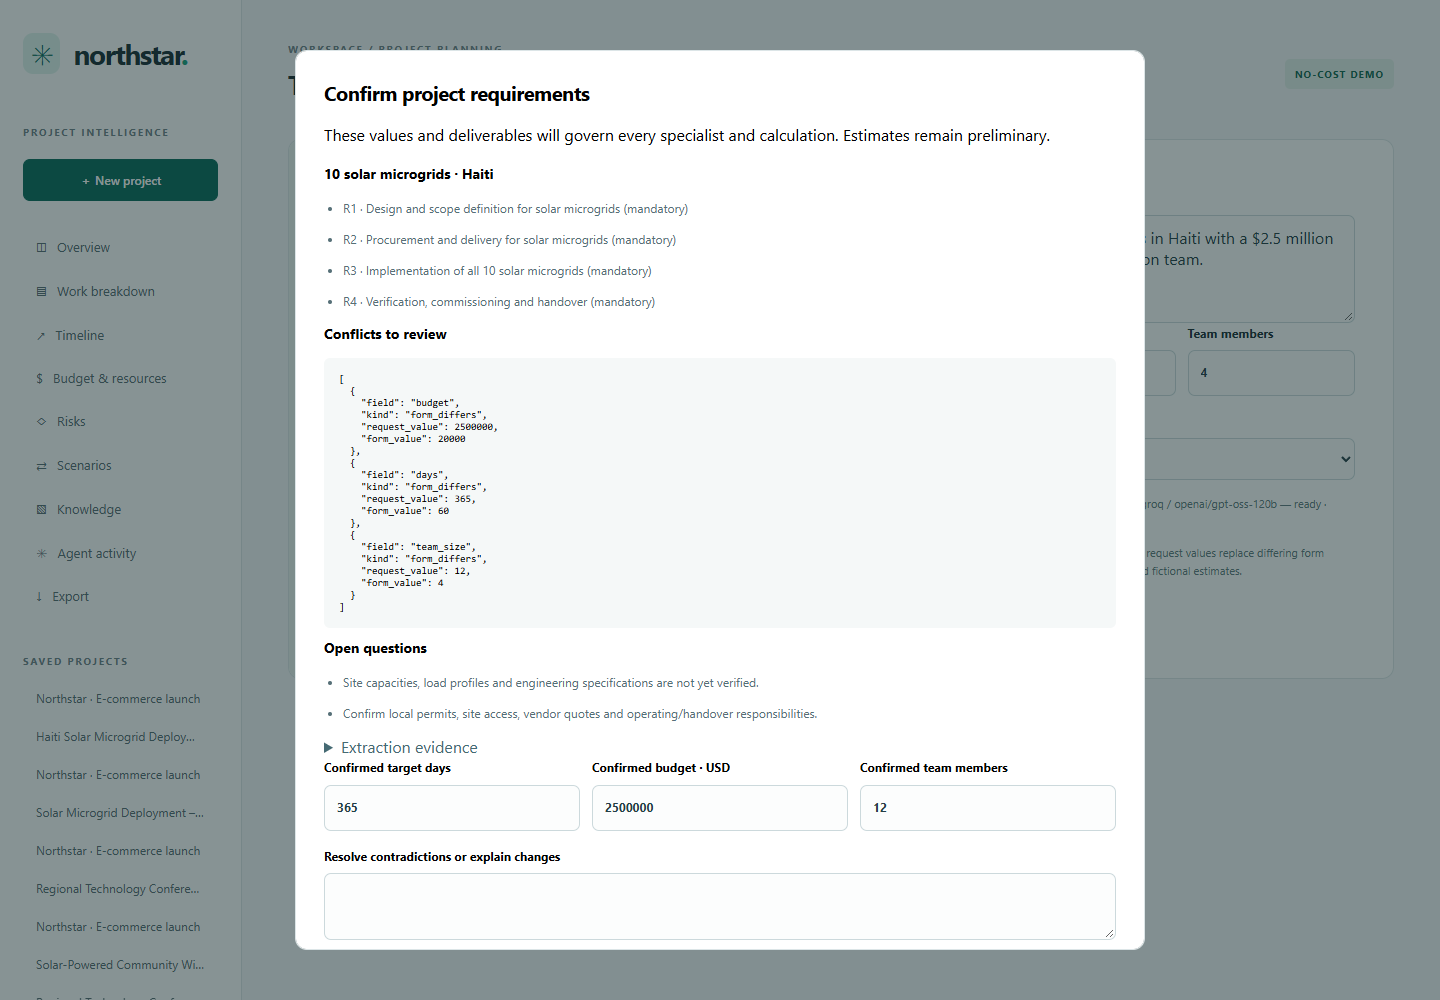
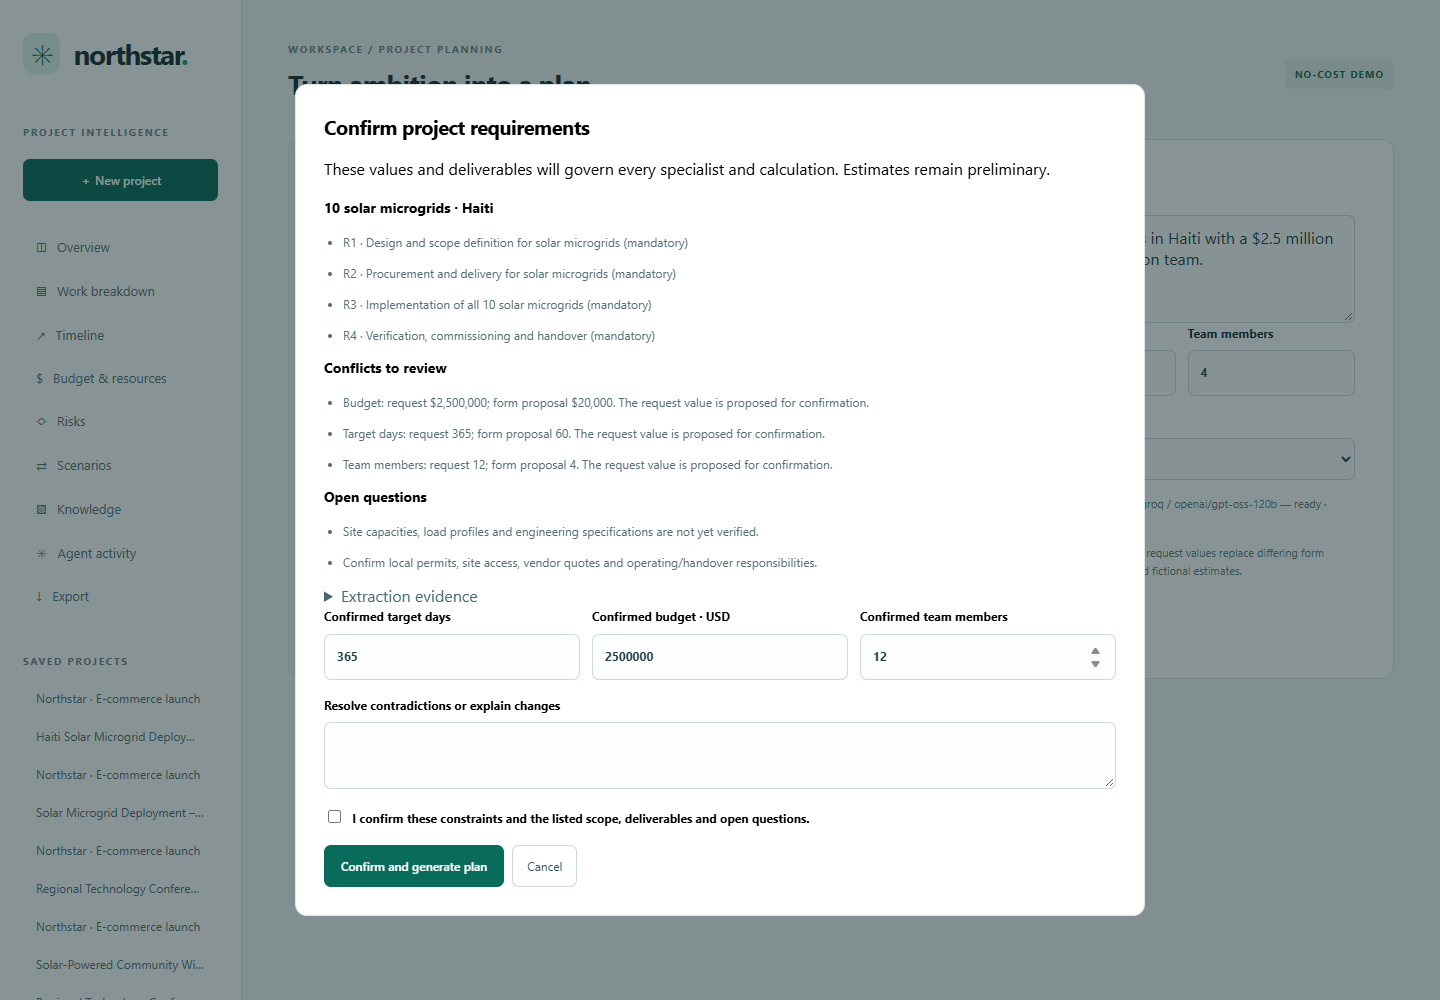
Show readable requirement conflicts during confirmation

diff --git a/web/app.js b/web/app.js
@@ -76,7 +76,10 @@ let pendingConfirmation = null;
 function presentConfirmation(draft, finish) {
   $('#confirmation-error').hidden=true;
   pendingConfirmation={draft,finish};
-  $('#requirements-summary').innerHTML=`<h3>${e(draft.scope.quantity)} ${e(draft.scope.asset)} · ${e(draft.scope.location)}</h3>${list(draft.scope.deliverables.map(r=>r.id+' · '+r.description+(r.mandatory?' (mandatory)':'')))}<h3>Conflicts to review</h3><pre>${e(JSON.stringify(draft.conflicts,null,2))}</pre><h3>Open questions</h3>${list(draft.questions)}<details><summary>Extraction evidence</summary><pre>${e(JSON.stringify(draft.provenance,null,2))}</pre></details>`;
+  const labels={days:'Target days',budget:'Budget',team_size:'Team members'};
+  const formatted=(field,value)=>field==='budget'?money(value):String(value);
+  const conflicts=draft.conflicts.map(c=>c.kind==='form_differs'?`${labels[c.field]}: request ${formatted(c.field,c.request_value)}; form proposal ${formatted(c.field,c.form_value)}. The request value is proposed for confirmation.`:`${labels[c.field]}: conflicting request values ${c.values.map(v=>formatted(c.field,v)).join(' or ')}. Choose a value and explain the resolution.`);
+  $('#requirements-summary').innerHTML=`<h3>${e(draft.scope.quantity)} ${e(draft.scope.asset)} · ${e(draft.scope.location)}</h3>${list(draft.scope.deliverables.map(r=>r.id+' · '+r.description+(r.mandatory?' (mandatory)':'')))}<h3>Conflicts to review</h3>${conflicts.length?list(conflicts):'<p>No conflicting values detected.</p>'}<h3>Open questions</h3>${list(draft.questions)}<details><summary>Extraction evidence</summary><pre>${e(JSON.stringify(draft.provenance,null,2))}</pre></details>`;
   $('#confirmed-days').value=draft.proposed_constraints.days??'';
   $('#confirmed-budget').value=draft.proposed_constraints.budget??'';
   $('#confirmed-team').value=draft.proposed_constraints.team_size??'';
